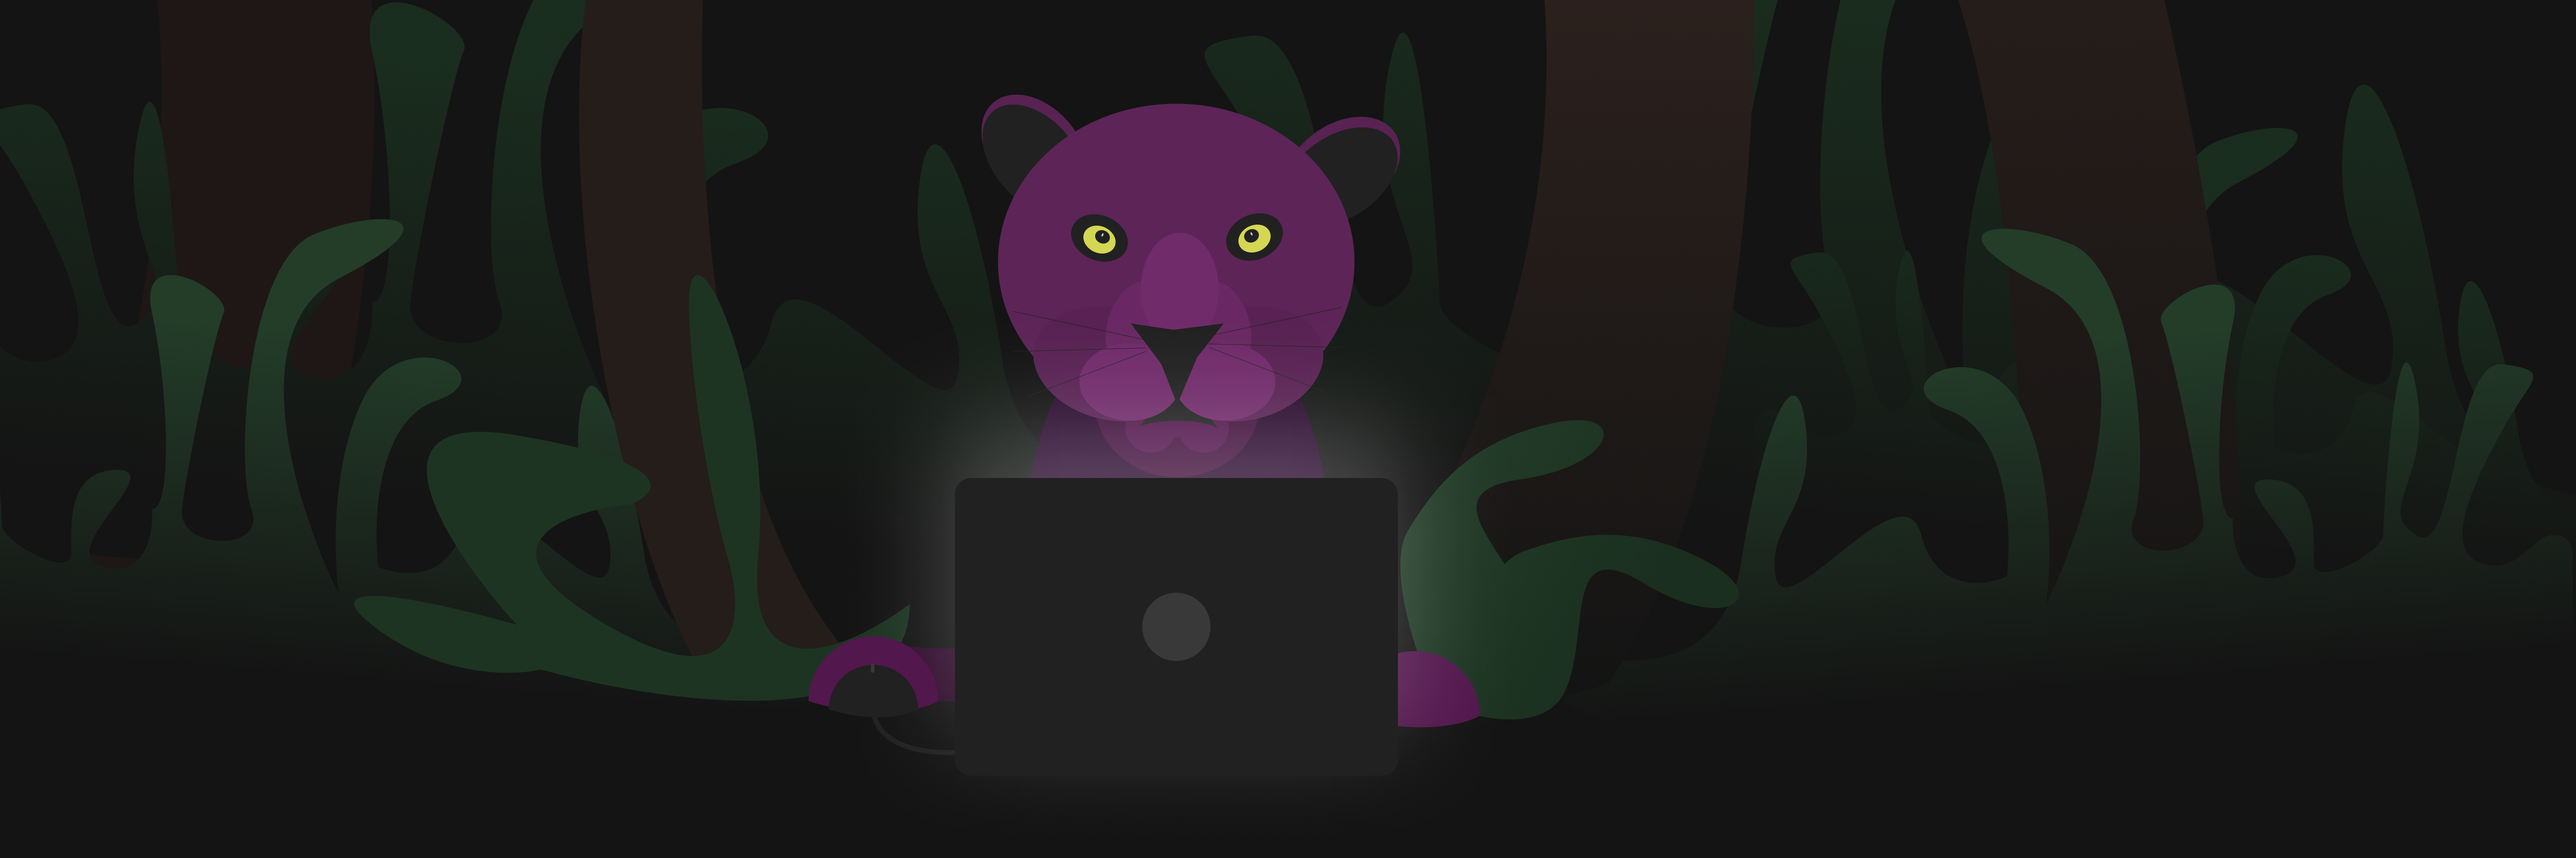
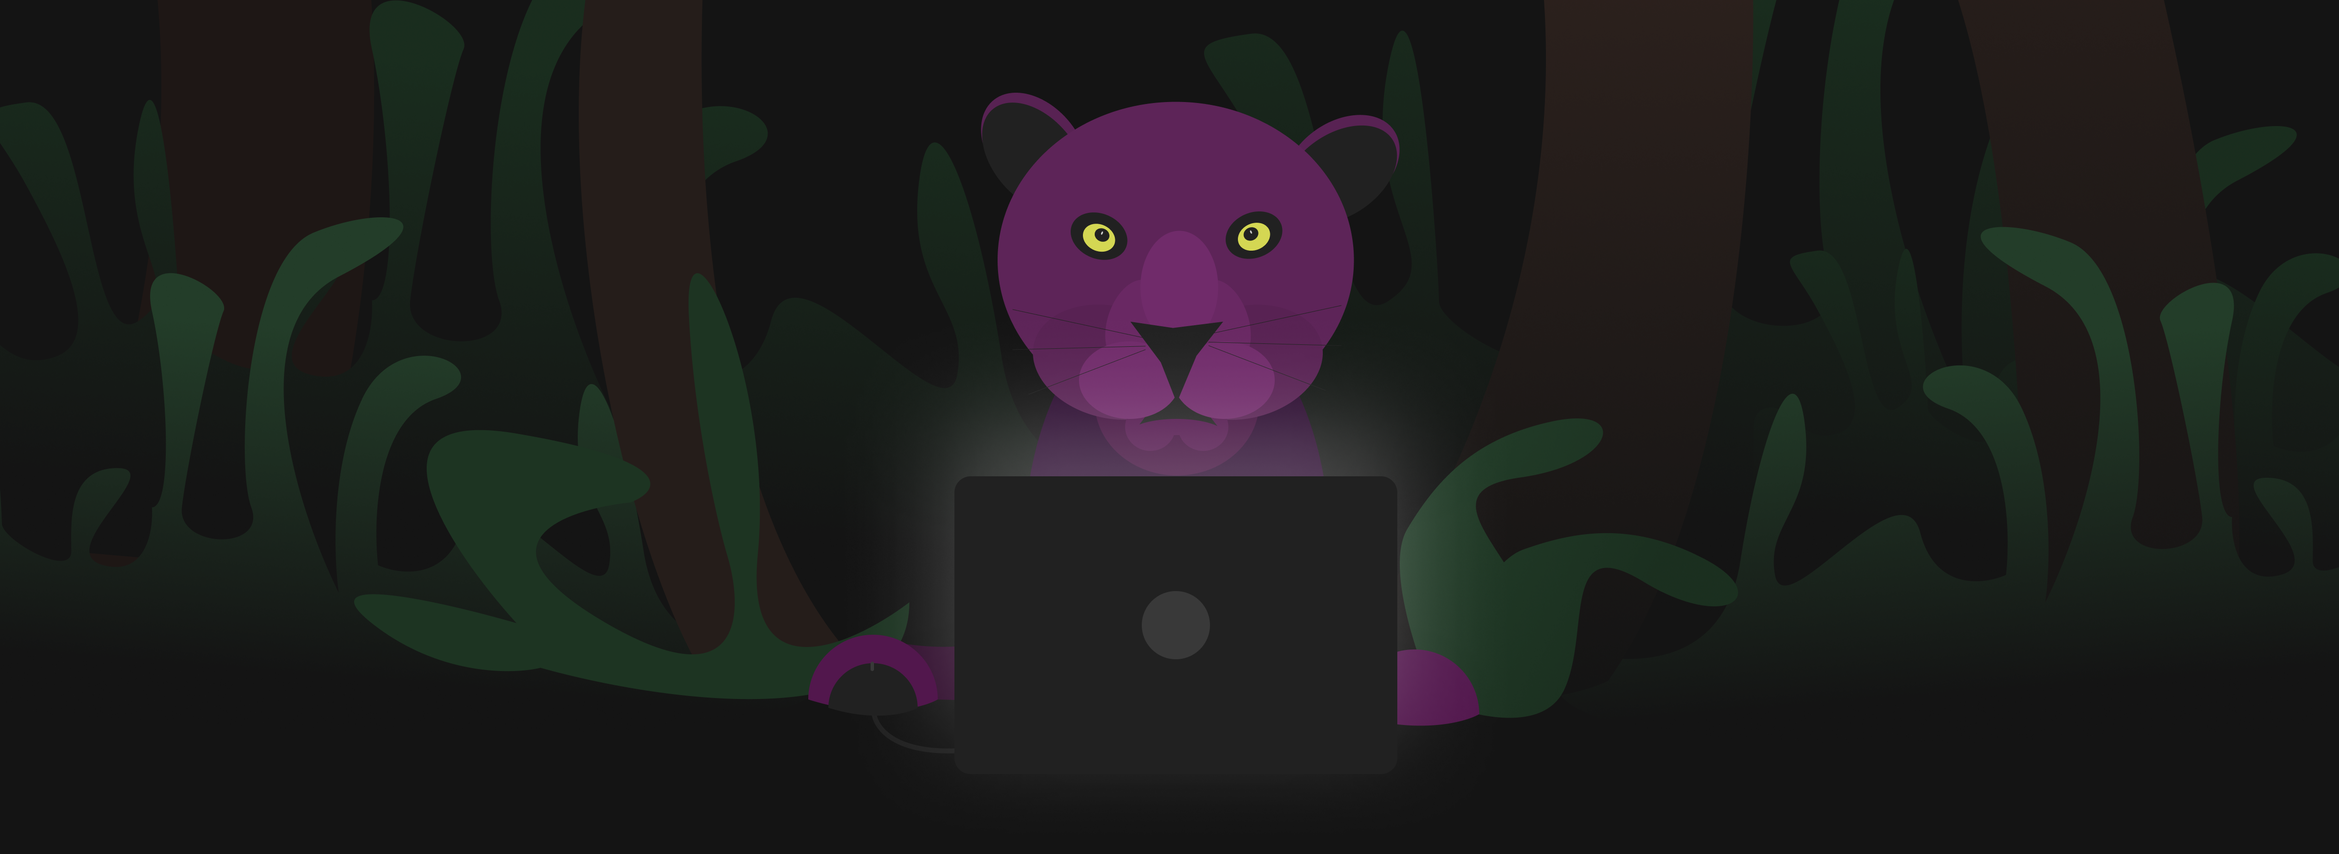
First Step - Background Image

diff --git a/index.js b/index.js
@@ -7,12 +7,6 @@ const jetpack = require("fs-jetpack"), //NOTE: remove if not used
 // Load process.env values from .env file
 require("dotenv").config();
 
-// Set up Airtbale (configure in the .env)
-var Airtable = require("airtable");
-var base = new Airtable({ apiKey: process.env.AIRTABLE_API_KEY }).base(
-  	process.env.AIRTABLE_BASE_ID
-);
-
 // Allow loading of files from the public directory:
 app.use(express.static("public"));
 // Load /public/index.html:
@@ -26,7 +20,7 @@ app.use(bp.urlencoded({ extended: true }));
 
 // Receive data as json:
 app.post("/submit", (req, res) => {
-  	var fname = req.body.fname,
+	var fname = req.body.fname,
 		lname = req.body.lname,
 		mi = req.body.mi,
 		email = req.body.email,
@@ -40,42 +34,47 @@ app.post("/submit", (req, res) => {
 			school: school,
 			grade: grade,
 		};
-  people[people.length] = newperson;
+	people[people.length] = newperson;
 
-  if (process.env.AIRTABLE == "true") {
-    // Send the data to a new record in an Airtable base (configure in the .env)
-    base(process.env.AIRTABLE_TABLE_NAME).create(
-      [
-        {
-          fields: {
-            "First Name": fname,
-            "Last Name": lname,
-            MI: mi,
-            Email: email,
-            "Current School": school,
-            Grade: grade,
-          },
-        },
-      ],
-      function (err, records) {
-        if (err) {
-          console.error(err);
-          return;
-        }
-        records.forEach(function (record) {
-          console.log(record.getId());
-        });
-      }
-    );
-  }
+	if (process.env.AIRTABLE == "true") {
+		// Set up Airtbale (configure in the .env)
+		var Airtable = require("airtable");
+		var base = new Airtable({ apiKey: process.env.AIRTABLE_API_KEY }).base(
+			process.env.AIRTABLE_BASE_ID
+		);
+		// Send the data to a new record in an Airtable base (configure in the .env)
+		base(process.env.AIRTABLE_TABLE_NAME).create(
+			[
+				{
+					fields: {
+						"First Name": fname,
+						"Last Name": lname,
+						MI: mi,
+						Email: email,
+						"Current School": school,
+						Grade: grade,
+					},
+				},
+			],
+			function (err, records) {
+				if (err) {
+					console.error(err);
+					return;
+				}
+				records.forEach(function (record) {
+					console.log(record.getId());
+				});
+			}
+		);
+	}
 
-  if (process.env.JSON == "true") {
+	if (process.env.JSON == "true") {
 		console.log(process.env.JSON);
 		jetpack.write("people.json", `{"people": ${JSON.stringify(people)} }`);
 		/*jetpack.append('people.json', JSON.stringify(people));
 		jetpack.append('people.json', ("}"));*/
-  }
-  res.send(true);
+	}
+	res.send(true);
 });
 // Log on successful launch:
 app.listen(port, () => console.log(`App listening on port ${port}!`));

diff --git a/public/index.html b/public/index.html
@@ -10,7 +10,9 @@
     <title>Open House INTERalliance Interest Form</title>
 </head>
 <body>
-    <img id="main" src="images/Elder INTERalliance Twitter Header.png">
+    <div id="hero-container">
+        <!-- <img id="main" src="images/Elder INTERalliance Twitter Header.png"> -->
+    </div>
     <img id="logo" src="images/Elder INTERalliance Profile Picture.png">
 
     <div class="inputcontainer">

diff --git a/public/main.css b/public/main.css
@@ -15,8 +15,18 @@ body{
     overflow: hidden;
 }
 
-#main{
+#hero-container {
+    height: 50vh;
     width: 100%;
+    background-image: url("images/Elder INTERalliance Twitter Header.png");
+    background-size: auto 100%;
+    background-position: center;
+    /* overflow-x: hidden;
+    overflow-y: visible; */
+}
+
+#main{
+    max-width: 100%;
 }
 
 #logo{
